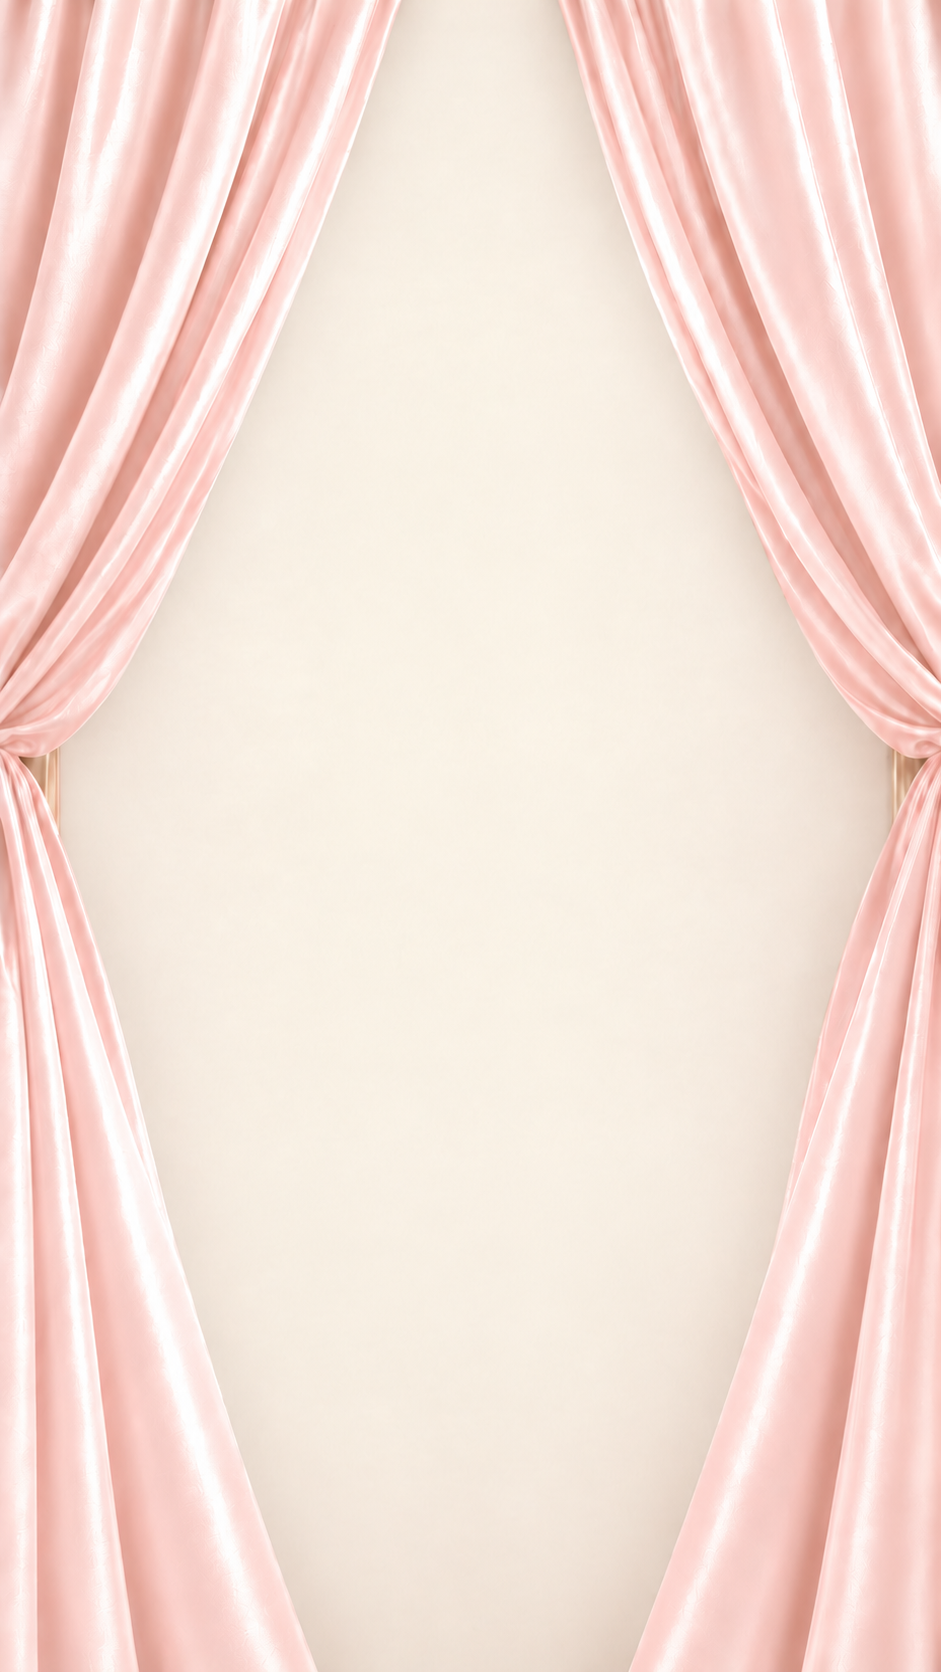
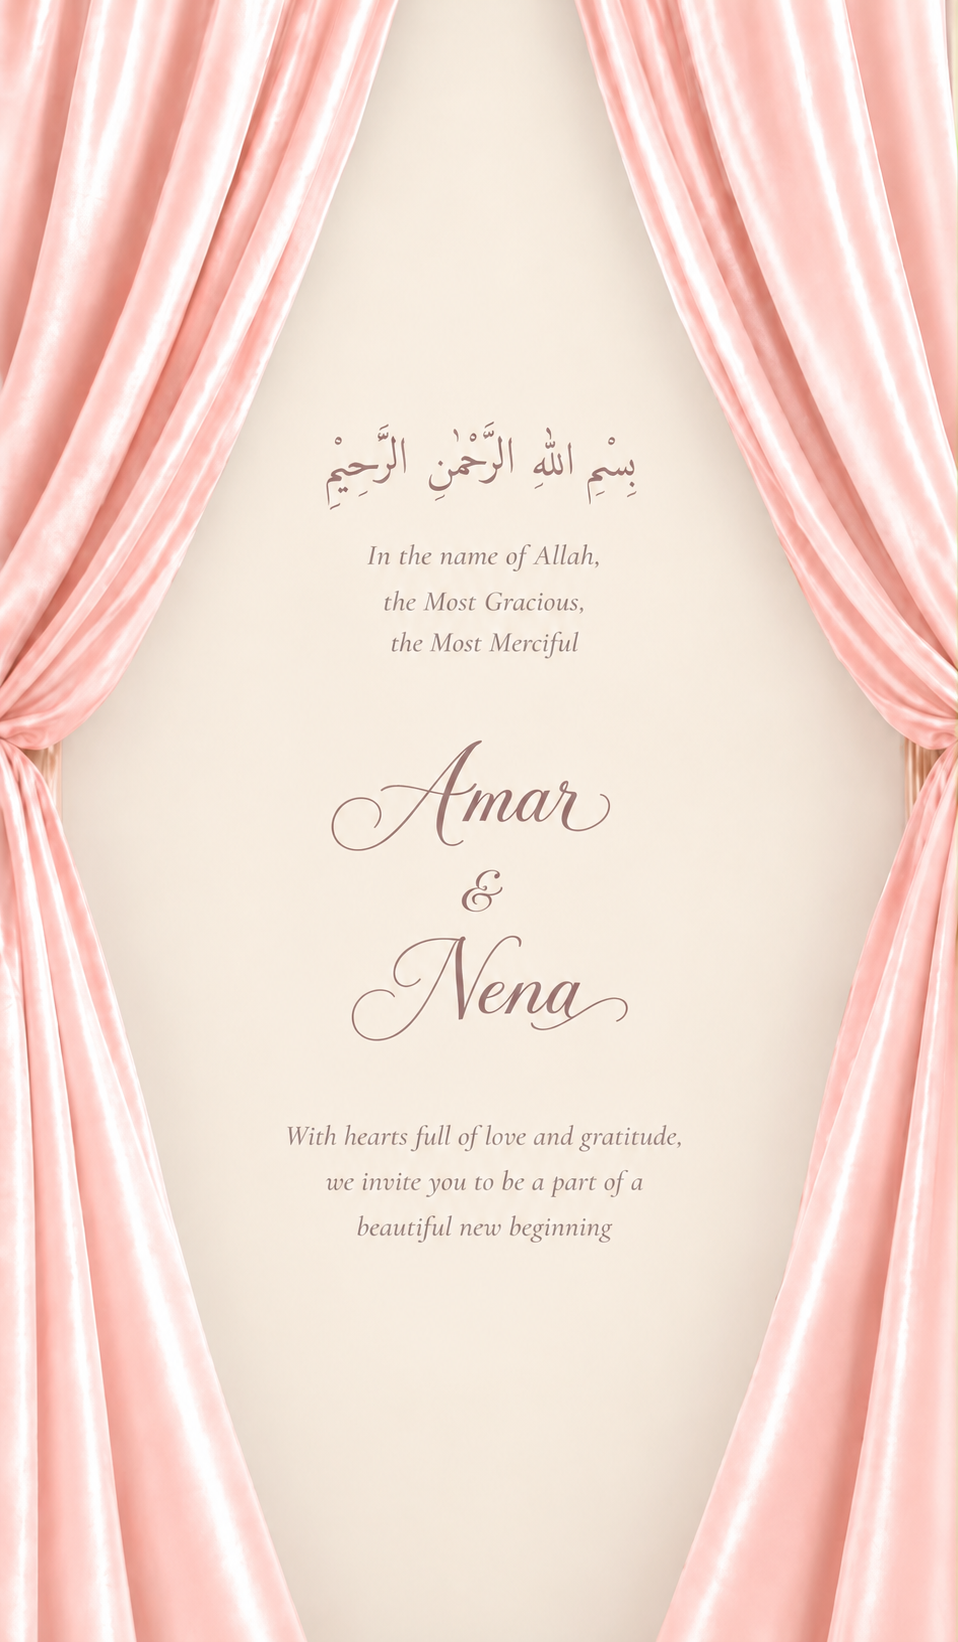
Repush updated wedding invitation

diff --git a/index.html b/index.html
@@ -19,12 +19,6 @@
 <main>
 <section class="hero">
 <img src="assets/img/hero.png" alt="Amar &amp; Nena — Nikah invitation">
-<div class="hero-content">
-<p class="hero-bismillah">بِسْمِ اللهِ الرَّحْمٰنِ الرَّحِيْمِ</p>
-<p class="hero-translation">In the name of Allah,<br>the Most Gracious,<br>the Most Merciful</p>
-<h1 class="hero-names">Amar<br><span>&amp;</span><span class="hero-nena"></span>Nena</span></h1>
-<p class="hero-tagline">With hearts full of love and gratitude,<br>we invite you to be a part of a<br>beautiful new beginning</p>
-</div>
 <a class="scrl" href="#nk" aria-label="Scroll down"><span>Scroll</span><svg width="22" height="22" viewBox="0 0 24 24" fill="none" stroke="currentColor" stroke-width="1.4" stroke-linecap="round" stroke-linejoin="round"><path d="M6 8l6 6 6-6"/><path d="M6 14l6 6 6-6" opacity=".5"/></svg></a>
 </section>
 <div id="pt" aria-hidden="true"></div>

diff --git a/assets/css/style.css b/assets/css/style.css
@@ -20,8 +20,8 @@ h2{font-weight:500;font-size:34px;color:var(--pink);letter-spacing:.04em}
 .sw{display:flex;flex-direction:column;gap:16px;align-items:center;margin:32px 0}
 .sw-row{display:flex;gap:16px;justify-content:center}
 .sw i{width:52px;height:52px;border-radius:50%;border:none}
-.dc-section{position:relative}
-.dc-section:after{content:"";position:absolute;inset:32px 28px;border:1px solid rgba(176,139,143,.35);border-radius:4px;pointer-events:none}
+.dc-section{position:relative;background:var(--ivory) url(../img/dress\ code.jpg) center/cover no-repeat}
+.dc-section:after{display:none}
 .hero{padding:0;display:block;position:relative}
 .hero img{width:100%;height:100dvh;object-fit:cover;display:block}
 .hero-content{position:absolute;top:50%;left:50%;transform:translate(-50%,-50%);text-align:center;width:70%;max-width:380px;z-index:2}
